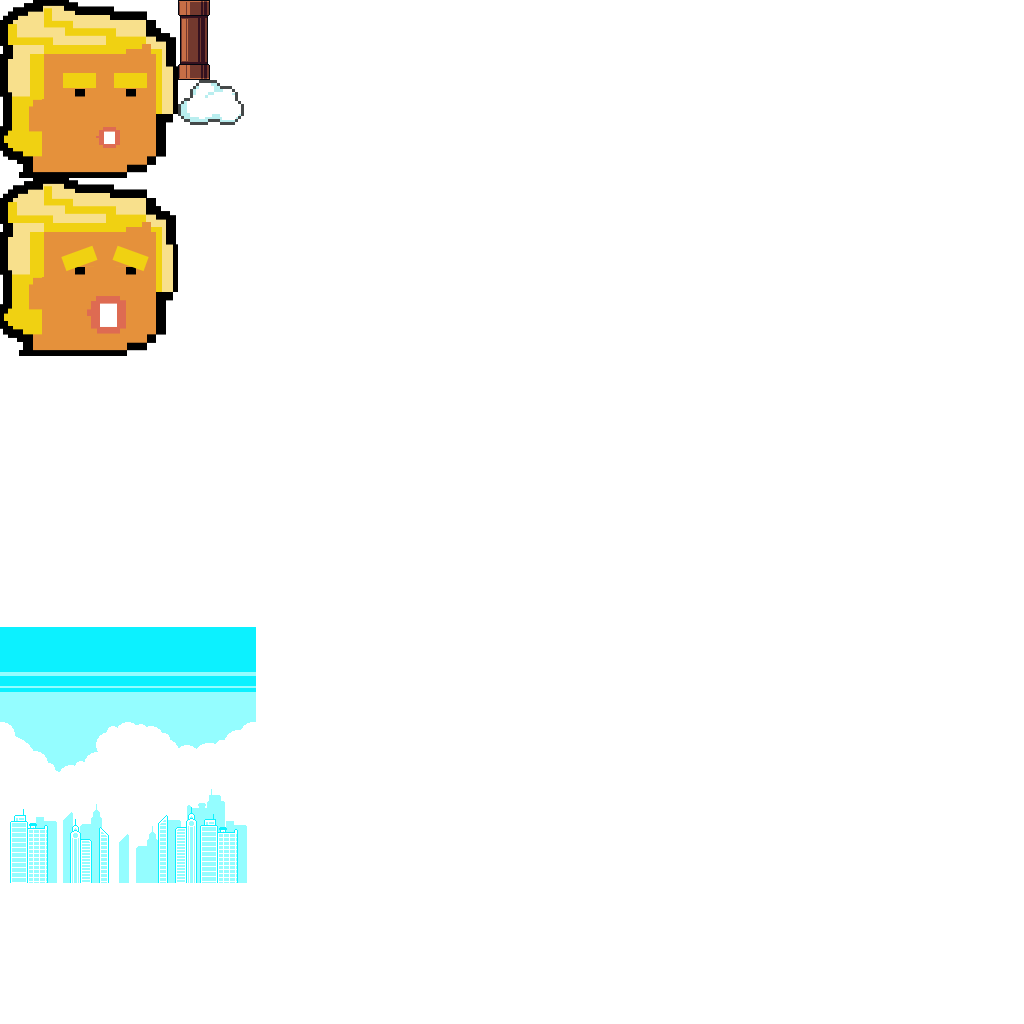
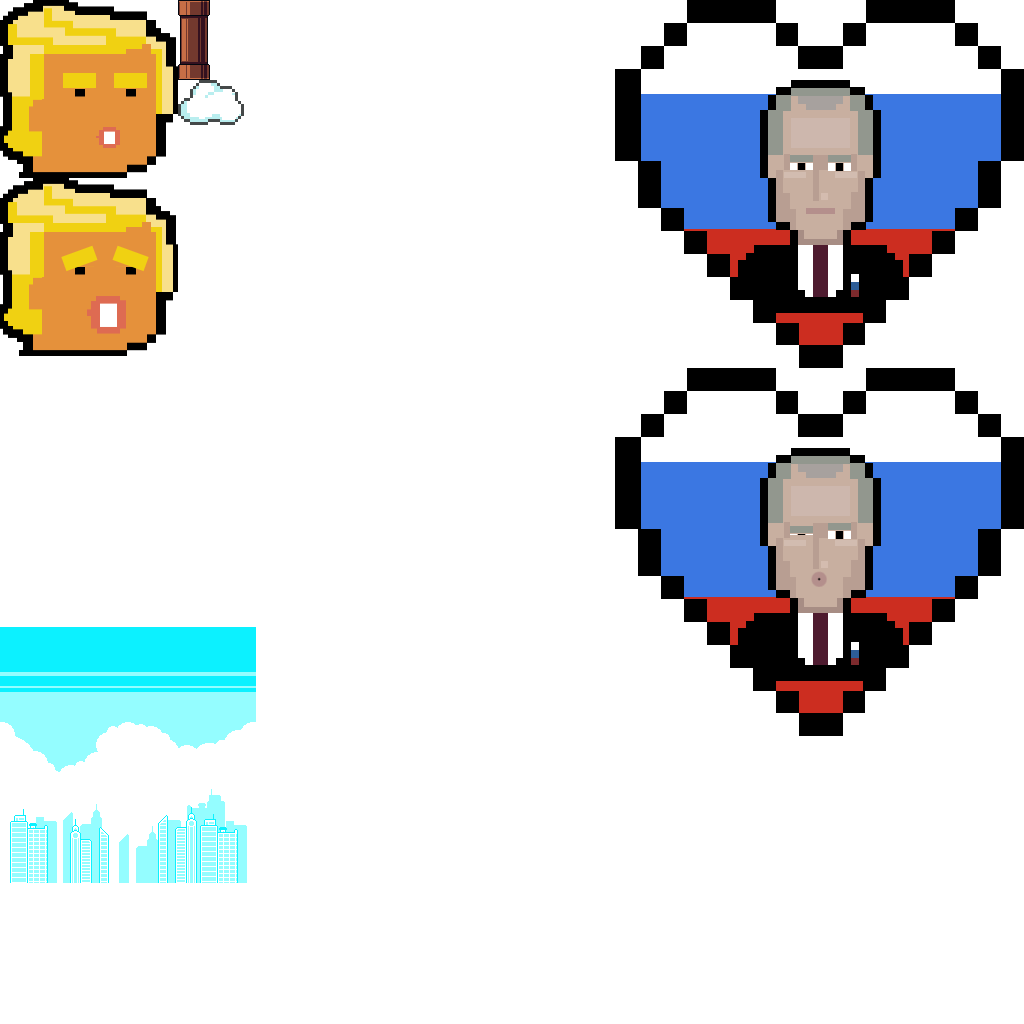
PutinsPuppet

Changed region(s): [[0.5938, 0.0, 1.0, 0.7188]]

diff --git a/apps/web/src/features/game/putins-puppet/hooks/usePutinsPuppet.ts b/apps/web/src/features/game/putins-puppet/hooks/usePutinsPuppet.ts
@@ -3,11 +3,11 @@ import { toast } from 'sonner';
 import type { CustomError, Maybe } from '@mono/common-dto';
 import { useGameEngine } from '../../game-engine/hooks/useGameEngine';
 import { GameStore } from '../../game-engine/context/GameStore';
-import { FlappyTrumpService } from '../service/FlappyTrumpService';
+import { PutinsPuppetService } from '../service/PutinsPuppetService';
 import { AssetService } from '../service/AssetService';
 import { CanvasDrawService } from '../service/CanvasDrawService';
 
-export const useFlappyTrump = (
+export const usePutinsPuppet = (
   gameStore: GameStore,
   setGameActive: (val: boolean) => void,
 ) => {
@@ -16,9 +16,9 @@ export const useFlappyTrump = (
   const [isLoading, setIsLoading] = useState(true);
 
   useEffect(() => {
-    FlappyTrumpService.setRemoteCanvasStream(setRemoteCanvasStream);
+    PutinsPuppetService.setRemoteCanvasStream(setRemoteCanvasStream);
     return () => {
-      FlappyTrumpService.removeRemoteCanvasStream();
+      PutinsPuppetService.removeRemoteCanvasStream();
     };
   }, [setRemoteCanvasStream]);
 
@@ -34,7 +34,7 @@ export const useFlappyTrump = (
 
   const initGamePerquisites = useCallback(async () => {
     try {
-      await FlappyTrumpService.initGamePerquisites();
+      await PutinsPuppetService.initGamePerquisites();
 
       let isMounted = true;
       const preloadPromise = AssetService.preload();
@@ -53,13 +53,13 @@ export const useFlappyTrump = (
 
       return () => {
         isMounted = false;
-        FlappyTrumpService.gameDispose();
+        PutinsPuppetService.gameDispose();
         CanvasDrawService.clearCache();
       };
     } catch (error) {
       handleInitError(error as CustomError);
       return () => {
-        FlappyTrumpService.gameDispose();
+        PutinsPuppetService.gameDispose();
         CanvasDrawService.clearCache();
       };
     }
@@ -72,11 +72,11 @@ export const useFlappyTrump = (
       prepareGame: initGamePerquisites,
       disposables: {
         roundDispose: () => {
-          FlappyTrumpService.roundDispose();
+          PutinsPuppetService.roundDispose();
           CanvasDrawService.clearCache();
         },
         gameDispose: () => {
-          FlappyTrumpService.gameDispose();
+          PutinsPuppetService.gameDispose();
           CanvasDrawService.clearCache();
         },
       },

diff --git a/apps/web/src/features/game/putins-puppet/container/PutinsPuppetContainer.tsx b/apps/web/src/features/game/putins-puppet/container/PutinsPuppetContainer.tsx
@@ -7,7 +7,7 @@ import { GameState } from '../../game-engine/model/GameState';
 import { useGameStore } from '../../game-engine/context/useGameStore';
 import { StartGameAlertDialog } from '../../game-engine/component/StartGameAlertDialog';
 import { ResultDialogContainer } from '../../game-engine/container/ResultDialogContainer';
-import { useFlappyTrump } from '../hooks/useFlappyTrump';
+import { usePutinsPuppet } from '../hooks/usePutinsPuppet';
 import { PlayerContainer } from './PlayerContainer';
 import { SpectatorContainer } from './SpectatorContainer';
 
@@ -23,7 +23,7 @@ const toggleMicrophone = (micEnabled: boolean) => {
   });
 };
 
-export const FlappyTrumpContainer = observer(function FlappyTrumpContainer({
+export const PutinsPuppetContainer = observer(function PutinsPuppetContainer({
   setGameActive,
 }: Props) {
   const gameStore = useGameStore();
@@ -34,7 +34,7 @@ export const FlappyTrumpContainer = observer(function FlappyTrumpContainer({
     endPlayerRound,
     remoteCanvasStream,
     isLoading,
-  } = useFlappyTrump(gameStore, setGameActive);
+  } = usePutinsPuppet(gameStore, setGameActive);
 
   const [showStartDialog, setShowStartDialog] = useState(false);
   const [showResultDialog, setShowResultDialog] = useState(false);

diff --git a/apps/web/src/features/game/putins-puppet/container/PlayerContainer.tsx b/apps/web/src/features/game/putins-puppet/container/PlayerContainer.tsx
@@ -3,7 +3,7 @@ import { observer } from 'mobx-react';
 import { Canvas } from '../component/Canvas';
 import { useCanvasAnimate } from '../hooks/useCanvasAnimate';
 import { useCanvasResize } from '../hooks/useCanvasResize';
-import { FlappyTrumpService } from '../service/FlappyTrumpService';
+import { PutinsPuppetService } from '../service/PutinsPuppetService';
 import { RandomTrumpSound } from '../component/RandomTrumpSound';
 
 interface Props {
@@ -18,7 +18,7 @@ export const PlayerContainer = observer(function PlayerContainer({
   const startAudioRef = useRef<HTMLAudioElement>(null);
   const endAudioRef = useRef<HTMLAudioElement>(null);
 
-  const getPitch = useCallback(() => FlappyTrumpService.getPitch(), []);
+  const getPitch = useCallback(() => PutinsPuppetService.getPitch(), []);
 
   const playStartSound = async () => {
     startAudioRef.current?.play();
@@ -41,10 +41,10 @@ export const PlayerContainer = observer(function PlayerContainer({
   });
 
   useEffect(() => {
-    FlappyTrumpService.startCanvasStream(canvasRef.current);
+    PutinsPuppetService.startCanvasStream(canvasRef.current);
 
     return () => {
-      FlappyTrumpService.stopCanvasStream();
+      PutinsPuppetService.stopCanvasStream();
     };
   }, []);
 

diff --git a/apps/web/src/features/dev/game/PutinsPuppetDev.tsx b/apps/web/src/features/dev/game/PutinsPuppetDev.tsx
@@ -4,11 +4,11 @@ import { observer } from 'mobx-react';
 import { Maybe } from '@mono/common-dto';
 import { VChatSocket } from '@mono/fe-dto';
 import { noop } from '../../../common/utils/noop';
-import { PlayerContainer } from '../../game/flappy-trump/container/PlayerContainer';
-import { FlappyTrumpService } from '../../game/flappy-trump/service/FlappyTrumpService';
-import { AssetService } from '../../game/flappy-trump/service/AssetService';
+import { PlayerContainer } from '../../game/putins-puppet/container/PlayerContainer';
+import { PutinsPuppetService } from '../../game/putins-puppet/service/PutinsPuppetService';
+import { AssetService } from '../../game/putins-puppet/service/AssetService';
 
-export const FlappyTrumpDev = observer(function FlappyTrumpDev() {
+export const PutinsPuppetDev = observer(function PutinsPuppetDev() {
   const [isReady, setIsReady] = useState(false);
 
   useEffect(() => {
@@ -37,7 +37,7 @@ export const FlappyTrumpDev = observer(function FlappyTrumpDev() {
 
     const init = async () => {
       await AssetService.preload();
-      FlappyTrumpService.initGamePerquisites().then(() => {
+      PutinsPuppetService.initGamePerquisites().then(() => {
         setIsReady(true);
       });
     };

diff --git a/apps/web/src/Routes.tsx b/apps/web/src/Routes.tsx
@@ -18,9 +18,9 @@ const DevMenu = lazy(() =>
     default: DevMenu,
   })),
 );
-const FlappyTrumpDev = lazy(() =>
-  import('./features/dev/game/FlappyTrumpDev').then(({ FlappyTrumpDev }) => ({
-    default: FlappyTrumpDev,
+const PutinsPuppetDev = lazy(() =>
+  import('./features/dev/game/PutinsPuppetDev').then(({ PutinsPuppetDev }) => ({
+    default: PutinsPuppetDev,
   })),
 );
 const ResultsDialogDev = lazy(() =>
@@ -38,8 +38,8 @@ const devRoutes: RouteObject[] = import.meta.env.DEV
         element: <DevMenu />,
         children: [
           {
-            path: DevRoutePath.FLAPPY_TRUMP,
-            element: <FlappyTrumpDev />,
+            path: DevRoutePath.PUTINS_PUPPET,
+            element: <PutinsPuppetDev />,
           },
           {
             path: DevRoutePath.RESULTS_DIALOG,

diff --git a/apps/web/src/features/game/game-engine/container/GameEngineContainer.tsx b/apps/web/src/features/game/game-engine/container/GameEngineContainer.tsx
@@ -1,6 +1,6 @@
 import { observer } from 'mobx-react';
 import { GameStoreProvider } from '../../game-engine/context/GameStoreProvider';
-import { FlappyTrumpContainer } from '../../flappy-trump/container/FlappyTrumpContainer';
+import { PutinsPuppetContainer } from '../../putins-puppet/container/PutinsPuppetContainer';
 
 interface Props {
   initiator: boolean;
@@ -15,7 +15,7 @@ export const GameEngineContainer = observer(function GameEngineContainer({
 }: Props) {
   return (
     <GameStoreProvider playerId={playerId} isMyTurn={initiator}>
-      <FlappyTrumpContainer setGameActive={setGameActive} />
+      <PutinsPuppetContainer setGameActive={setGameActive} />
     </GameStoreProvider>
   );
 });

diff --git a/apps/web/src/features/game/game-engine/context/GameStore.ts b/apps/web/src/features/game/game-engine/context/GameStore.ts
@@ -2,7 +2,7 @@ import { Maybe } from '@mono/common-dto';
 import { action, computed, observable } from 'mobx';
 import { GameState } from '../model/GameState';
 
-type GameType = 'flappyTrump';
+type GameType = 'putinsPuppet';
 
 interface RoundResult {
   playerId: string;
@@ -34,7 +34,7 @@ export class GameStore {
   ) {
     this.playerId = playerId;
     this.isMyTurn = isMyTurn;
-    this.gameType = config.gameType ?? 'flappyTrump';
+    this.gameType = config.gameType ?? 'putinsPuppet';
     this.maxRounds = config.maxRounds ?? 1;
   }
 

diff --git a/apps/web/src/features/dev/DevMenu.tsx b/apps/web/src/features/dev/DevMenu.tsx
@@ -12,7 +12,7 @@ export function DevMenu() {
       <header className="absolute top-0 left-0 z-100 flex gap-4 items-center bg-red-600 p-2 border-1 border-white border-dashed opacity-50">
         <Button onClick={goBack}>Go back</Button>
         <span>|</span>
-        <Link to={DevRoutePath.FLAPPY_TRUMP}>Flappy Trump</Link>
+        <Link to={DevRoutePath.PUTINS_PUPPET}>Putin's Puppet</Link>
         <span>|</span>
         <Link to={DevRoutePath.RESULTS_DIALOG}>Result dialogs</Link>
       </header>

diff --git a/apps/web/src/features/game/putins-puppet/component/RandomTrumpSound.tsx b/apps/web/src/features/game/putins-puppet/component/RandomTrumpSound.tsx
@@ -1,7 +1,11 @@
 import { useEffect, useMemo, useState } from 'react';
 import { Audio } from '@/common/components/audio/Audio';
 
-const TRUMP_START_SOUNDS = ['trump_love_teslur', 'trump_grab_pussy'];
+const TRUMP_START_SOUNDS = [
+  'trump_love_teslur',
+  'trump_grab_pussy',
+  'trump_love_uneducated',
+];
 const TRUMP_ENDING_SOUNDS = [
   'trump_bye',
   'trump_we_are_dying',

diff --git a/apps/web/src/features/game/putins-puppet/service/PutinsPuppetService.ts b/apps/web/src/features/game/putins-puppet/service/PutinsPuppetService.ts
@@ -102,7 +102,7 @@ const gameDispose = () => {
   removeRemoteCanvasStream();
 };
 
-export const FlappyTrumpService = {
+export const PutinsPuppetService = {
   initGamePerquisites,
   getPitch,
 

diff --git a/apps/web/src/RoutePath.ts b/apps/web/src/RoutePath.ts
@@ -1,6 +1,6 @@
 export enum DevRoutePath {
   DEV = '/dev',
-  FLAPPY_TRUMP = '/dev/flappy-trump',
+  PUTINS_PUPPET = '/dev/putins-puppet',
   RESULTS_DIALOG = '/dev/results-dialogs',
 }
 
